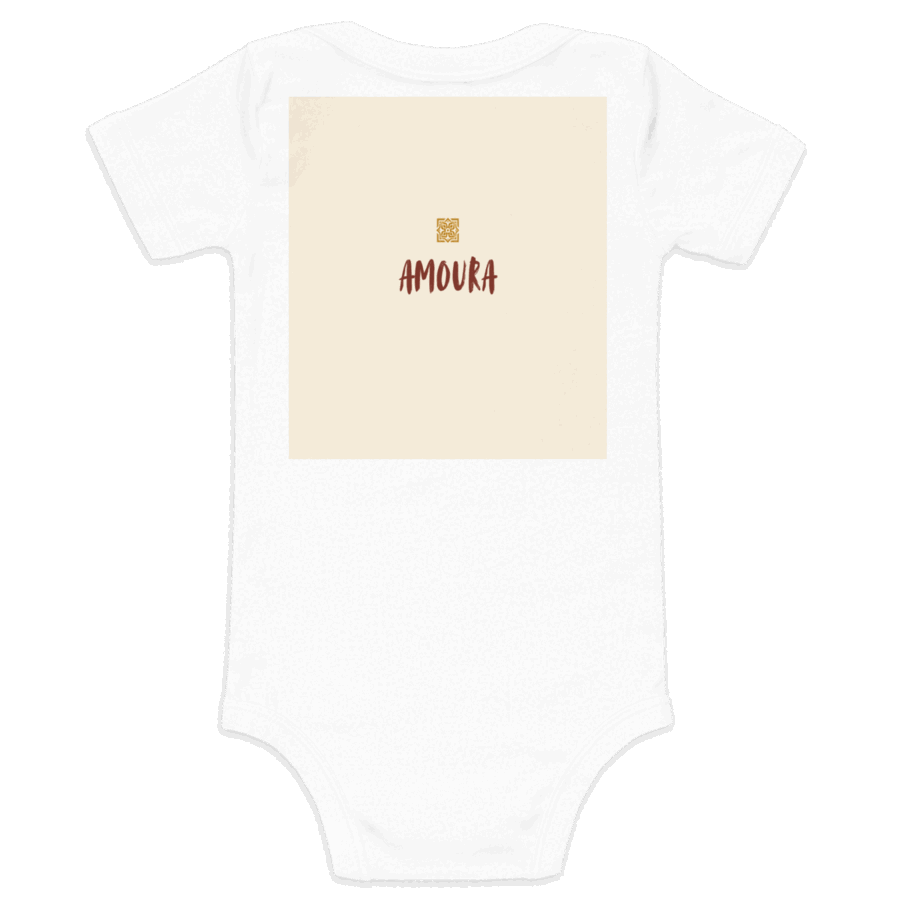
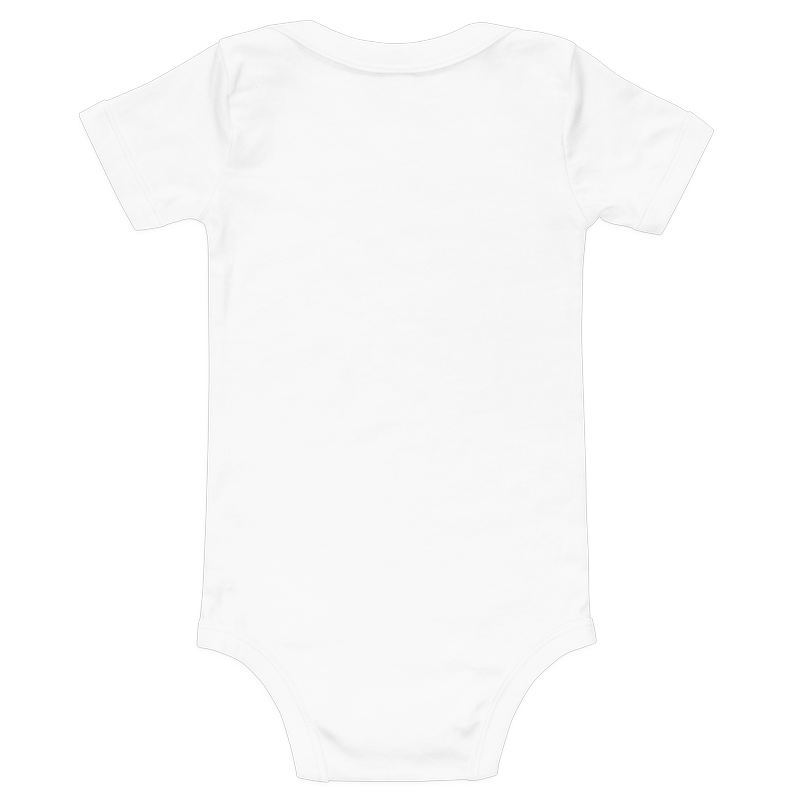
fix(storefront): frame blank onesie backs and center the share mark
Replace the cream-box onesie backs with the blank back, scaled to each front. Drop the repeated hat Style and Fit rows, and center the share image on glyph bounds.

Changed region(s): [[0.3125, 0.0938, 0.6875, 0.5312]]

diff --git a/site/catalog.js b/site/catalog.js
@@ -27,8 +27,8 @@ window.HABIBI_CATALOG = {
     { id: 8001, slug: "craft-club-sticker", image: "assets/mockups/craft-club-sticker.png", name: "Craft Club", category: "stickers", kind: "Sticker", price: 5.99, priceLabel: "$5.99", spec: "About 3 in · vinyl", note: "Vinyl sticker.", blurb: "Vinyl sticker.", details: [["Size", "About 3 in"], ["Material", "Vinyl"], ["Finish", "Kiss-cut"], ["Care", "Wipe clean"], ["Timing", "Printed after you order · usually 2–5 days"]] },
     { id: 8002, slug: "make-something-sticker", image: "assets/mockups/make-something-sticker.png", name: "Make Something", category: "stickers", kind: "Sticker", price: 5.99, priceLabel: "$5.99", spec: "About 3 in · vinyl", note: "Vinyl sticker.", blurb: "Vinyl sticker.", details: [["Size", "About 3 in"], ["Material", "Vinyl"], ["Finish", "Kiss-cut"], ["Care", "Wipe clean"], ["Timing", "Printed after you order · usually 2–5 days"]] },
     { id: 8003, slug: "leaf-season-sticker", image: "assets/mockups/leaf-season-sticker.png", name: "Leaf Season", category: "stickers", kind: "Sticker", price: 5.99, priceLabel: "$5.99", spec: "About 3 in · vinyl", note: "Vinyl sticker.", blurb: "Vinyl sticker.", details: [["Size", "About 3 in"], ["Material", "Vinyl"], ["Finish", "Kiss-cut"], ["Care", "Wipe clean"], ["Timing", "Printed after you order · usually 2–5 days"]] },
-    { id: 8004, slug: "habibi-crafts-hat", image: "assets/mockups/habibi-crafts-hat.png", name: "Habibi Crafts", category: "hats", kind: "Dad hat", price: 29.99, priceLabel: "$29.99", spec: "One size · unstructured", note: "Unstructured dad hat.", blurb: "Unstructured dad hat.", details: [["Style", "Dad hat"], ["Fit", "One size, adjustable"], ["Color", "Black"], ["Care", "Spot clean"], ["Timing", "Printed after you order · usually 2–5 days"]] },
-    { id: 8005, slug: "make-something-hat", image: "assets/mockups/make-something-hat.png", name: "Make Something", category: "hats", kind: "Dad hat", price: 29.99, priceLabel: "$29.99", spec: "One size · unstructured", note: "Unstructured dad hat.", blurb: "Unstructured dad hat.", details: [["Style", "Dad hat"], ["Fit", "One size, adjustable"], ["Color", "Black"], ["Care", "Spot clean"], ["Timing", "Printed after you order · usually 2–5 days"]] },
-    { id: 8006, slug: "leaf-season-hat", image: "assets/mockups/leaf-season-hat.png", name: "Leaf Season", category: "hats", kind: "Dad hat", price: 29.99, priceLabel: "$29.99", spec: "One size · unstructured", note: "Unstructured dad hat.", blurb: "Unstructured dad hat.", details: [["Style", "Dad hat"], ["Fit", "One size, adjustable"], ["Color", "Black"], ["Care", "Spot clean"], ["Timing", "Printed after you order · usually 2–5 days"]] }
+    { id: 8004, slug: "habibi-crafts-hat", image: "assets/mockups/habibi-crafts-hat.png", name: "Habibi Crafts", category: "hats", kind: "Dad hat", price: 29.99, priceLabel: "$29.99", spec: "One size · unstructured", note: "Unstructured dad hat.", blurb: "Unstructured dad hat.", details: [["Color", "Black"], ["Care", "Spot clean"], ["Timing", "Printed after you order · usually 2–5 days"]] },
+    { id: 8005, slug: "make-something-hat", image: "assets/mockups/make-something-hat.png", name: "Make Something", category: "hats", kind: "Dad hat", price: 29.99, priceLabel: "$29.99", spec: "One size · unstructured", note: "Unstructured dad hat.", blurb: "Unstructured dad hat.", details: [["Color", "Black"], ["Care", "Spot clean"], ["Timing", "Printed after you order · usually 2–5 days"]] },
+    { id: 8006, slug: "leaf-season-hat", image: "assets/mockups/leaf-season-hat.png", name: "Leaf Season", category: "hats", kind: "Dad hat", price: 29.99, priceLabel: "$29.99", spec: "One size · unstructured", note: "Unstructured dad hat.", blurb: "Unstructured dad hat.", details: [["Color", "Black"], ["Care", "Spot clean"], ["Timing", "Printed after you order · usually 2–5 days"]] }
   ]
 };

diff --git a/site/onesies.html b/site/onesies.html
@@ -83,19 +83,19 @@
     <nav class="filter-bar" aria-label="Shop by collection"><a class="filter-button" href="shop.html">All</a><a class="filter-button" href="mugs.html">Mugs</a><a class="filter-button" href="tees.html">Tees</a><a class="filter-button" href="totes.html">Totes</a><a class="filter-button" href="onesies.html" aria-current="page">Onesies</a><a class="filter-button" href="prints.html">Prints</a><a class="filter-button" href="stickers.html">Stickers</a><a class="filter-button" href="hats.html">Hats</a></nav>
   </div></section>
   <section class="section tight"><div class="shell">
-    <div class="product-grid"><a class="product-card reveal" href="product-ya-teta.html" data-category="baby" data-preview="[&quot;assets/angles/ya-teta/back-view.png?v=10&quot;]">
+    <div class="product-grid"><a class="product-card reveal" href="product-ya-teta.html" data-category="baby" data-preview="[&quot;assets/angles/ya-teta/back-view.png?v=19&quot;]">
   <div class="product-media"><img class="mockup" src="assets/mockups/ya-teta.png?v=9" alt="Ya Teta" width="800" height="800" loading="lazy" decoding="async"></div>
   <div class="product-copy">
     <div class="product-type">Onesie</div>
     <div class="product-row"><h3>Ya Teta</h3><span class="price">$27.99</span></div>
   </div>
-</a><a class="product-card reveal" href="product-amoura.html" data-category="baby" data-preview="[&quot;assets/angles/amoura/back-view.png?v=10&quot;]">
+</a><a class="product-card reveal" href="product-amoura.html" data-category="baby" data-preview="[&quot;assets/angles/amoura/back-view.png?v=19&quot;]">
   <div class="product-media"><img class="mockup" src="assets/mockups/amoura.png?v=9" alt="Amoura" width="800" height="800" loading="lazy" decoding="async"></div>
   <div class="product-copy">
     <div class="product-type">Onesie</div>
     <div class="product-row"><h3>Amoura</h3><span class="price">$27.99</span></div>
   </div>
-</a><a class="product-card reveal" href="product-garden-gate.html" data-category="baby" data-preview="[&quot;assets/angles/garden-gate/back-view.png?v=10&quot;]">
+</a><a class="product-card reveal" href="product-garden-gate.html" data-category="baby" data-preview="[&quot;assets/angles/garden-gate/back-view.png?v=19&quot;]">
   <div class="product-media"><img class="mockup" src="assets/mockups/garden-gate.png?v=18" alt="Garden Gate" width="800" height="800" loading="lazy" decoding="async"></div>
   <div class="product-copy">
     <div class="product-type">Onesie</div>

diff --git a/site/shop.html b/site/shop.html
@@ -199,19 +199,19 @@
       <div><h2 id="baby-heading">Onesies</h2><p>Baby onesie.</p></div>
       <a class="text-link" href="onesies.html">Shop onesies</a>
     </div>
-    <div class="product-grid"><a class="product-card reveal" href="product-ya-teta.html" data-category="baby" data-preview="[&quot;assets/angles/ya-teta/back-view.png?v=10&quot;]">
+    <div class="product-grid"><a class="product-card reveal" href="product-ya-teta.html" data-category="baby" data-preview="[&quot;assets/angles/ya-teta/back-view.png?v=19&quot;]">
   <div class="product-media"><img class="mockup" src="assets/mockups/ya-teta.png?v=9" alt="Ya Teta" width="800" height="800" loading="lazy" decoding="async"></div>
   <div class="product-copy">
     <div class="product-type">Onesie</div>
     <div class="product-row"><h3>Ya Teta</h3><span class="price">$27.99</span></div>
   </div>
-</a><a class="product-card reveal" href="product-amoura.html" data-category="baby" data-preview="[&quot;assets/angles/amoura/back-view.png?v=10&quot;]">
+</a><a class="product-card reveal" href="product-amoura.html" data-category="baby" data-preview="[&quot;assets/angles/amoura/back-view.png?v=19&quot;]">
   <div class="product-media"><img class="mockup" src="assets/mockups/amoura.png?v=9" alt="Amoura" width="800" height="800" loading="lazy" decoding="async"></div>
   <div class="product-copy">
     <div class="product-type">Onesie</div>
     <div class="product-row"><h3>Amoura</h3><span class="price">$27.99</span></div>
   </div>
-</a><a class="product-card reveal" href="product-garden-gate.html" data-category="baby" data-preview="[&quot;assets/angles/garden-gate/back-view.png?v=10&quot;]">
+</a><a class="product-card reveal" href="product-garden-gate.html" data-category="baby" data-preview="[&quot;assets/angles/garden-gate/back-view.png?v=19&quot;]">
   <div class="product-media"><img class="mockup" src="assets/mockups/garden-gate.png?v=18" alt="Garden Gate" width="800" height="800" loading="lazy" decoding="async"></div>
   <div class="product-copy">
     <div class="product-type">Onesie</div>

diff --git a/site/product-garden-gate.html b/site/product-garden-gate.html
@@ -78,7 +78,7 @@
 </div>
 <main id="main">
   <div class="shell product-page">
-    <div class="spin" data-spin data-kind="baby" data-frames="[{&quot;src&quot;:&quot;assets/angles/garden-gate/front-view.png?v=18&quot;,&quot;label&quot;:&quot;front view&quot;},{&quot;src&quot;:&quot;assets/angles/garden-gate/back-view.png?v=10&quot;,&quot;label&quot;:&quot;back view&quot;}]" data-alt="Garden Gate">
+    <div class="spin" data-spin data-kind="baby" data-frames="[{&quot;src&quot;:&quot;assets/angles/garden-gate/front-view.png?v=18&quot;,&quot;label&quot;:&quot;front view&quot;},{&quot;src&quot;:&quot;assets/angles/garden-gate/back-view.png?v=19&quot;,&quot;label&quot;:&quot;back view&quot;}]" data-alt="Garden Gate">
       <div class="spin-counter" data-spin-counter>front view</div>
       <div class="spin-stage" data-spin-stage>
         <img data-spin-image class="mockup" src="assets/angles/garden-gate/front-view.png?v=18" alt="Garden Gate" width="1200" height="1200" decoding="async">

diff --git a/site/product-ya-teta.html b/site/product-ya-teta.html
@@ -78,7 +78,7 @@
 </div>
 <main id="main">
   <div class="shell product-page">
-    <div class="spin" data-spin data-kind="baby" data-frames="[{&quot;src&quot;:&quot;assets/angles/ya-teta/front-view.png?v=11&quot;,&quot;label&quot;:&quot;front view&quot;},{&quot;src&quot;:&quot;assets/angles/ya-teta/back-view.png?v=10&quot;,&quot;label&quot;:&quot;back view&quot;}]" data-alt="Ya Teta">
+    <div class="spin" data-spin data-kind="baby" data-frames="[{&quot;src&quot;:&quot;assets/angles/ya-teta/front-view.png?v=11&quot;,&quot;label&quot;:&quot;front view&quot;},{&quot;src&quot;:&quot;assets/angles/ya-teta/back-view.png?v=19&quot;,&quot;label&quot;:&quot;back view&quot;}]" data-alt="Ya Teta">
       <div class="spin-counter" data-spin-counter>front view</div>
       <div class="spin-stage" data-spin-stage>
         <img data-spin-image class="mockup" src="assets/angles/ya-teta/front-view.png?v=11" alt="Ya Teta" width="1200" height="1200" decoding="async">

diff --git a/site/product-amoura.html b/site/product-amoura.html
@@ -78,7 +78,7 @@
 </div>
 <main id="main">
   <div class="shell product-page">
-    <div class="spin" data-spin data-kind="baby" data-frames="[{&quot;src&quot;:&quot;assets/angles/amoura/front-view.png?v=11&quot;,&quot;label&quot;:&quot;front view&quot;},{&quot;src&quot;:&quot;assets/angles/amoura/back-view.png?v=10&quot;,&quot;label&quot;:&quot;back view&quot;}]" data-alt="Amoura">
+    <div class="spin" data-spin data-kind="baby" data-frames="[{&quot;src&quot;:&quot;assets/angles/amoura/front-view.png?v=11&quot;,&quot;label&quot;:&quot;front view&quot;},{&quot;src&quot;:&quot;assets/angles/amoura/back-view.png?v=19&quot;,&quot;label&quot;:&quot;back view&quot;}]" data-alt="Amoura">
       <div class="spin-counter" data-spin-counter>front view</div>
       <div class="spin-stage" data-spin-stage>
         <img data-spin-image class="mockup" src="assets/angles/amoura/front-view.png?v=11" alt="Amoura" width="1200" height="1200" decoding="async">

diff --git a/api/__tests__/copy-lint.test.js b/api/__tests__/copy-lint.test.js
@@ -155,6 +155,16 @@ describe('storefront copy does not regress the live-site review', () => {
     assert.ok(read('shop.html').includes('Mugs, tees, totes, onesies, prints, stickers, and hats.'));
   });
 
+  it('does not repeat the hat subtitle in the details rows', () => {
+    for (const name of ['product-habibi-crafts-hat.html', 'product-make-something-hat.html', 'product-leaf-season-hat.html']) {
+      const html = read(name);
+      assert.match(html, /<p class="product-subtitle">Unstructured dad hat, one size adjustable<\/p>/);
+      assert.doesNotMatch(html, /<dt>Style<\/dt>/);
+      assert.doesNotMatch(html, /<dt>Fit<\/dt>/);
+      assert.match(html, /<dt>Color<\/dt><dd>Black<\/dd>/);
+    }
+  });
+
   it('keeps the hat fit line on the hats intro only', () => {
     const line = 'Black. Unstructured dad hat, one size adjustable.';
     const hats = read('hats.html');

diff --git a/site/product-habibi-crafts-hat.html b/site/product-habibi-crafts-hat.html
@@ -89,7 +89,7 @@
       <p class="checkout-note">We're not taking orders yet.</p>
       <div class="detail-list">
         <h2>Details</h2>
-        <dl><div><dt>Style</dt><dd>Dad hat</dd></div><div><dt>Fit</dt><dd>One size, adjustable</dd></div><div><dt>Color</dt><dd>Black</dd></div><div><dt>Care</dt><dd>Spot clean</dd></div><div><dt>Timing</dt><dd>We print it after you order. It usually ships in 2 to 5 days.</dd></div></dl>
+        <dl><div><dt>Color</dt><dd>Black</dd></div><div><dt>Care</dt><dd>Spot clean</dd></div><div><dt>Timing</dt><dd>We print it after you order. It usually ships in 2 to 5 days.</dd></div></dl>
       </div>
       <p class="product-trust-links"><a href="shipping.html">Shipping &amp; timing</a> · <a href="faq.html">Sizes &amp; care</a></p>
     </div>

diff --git a/site/product-leaf-season-hat.html b/site/product-leaf-season-hat.html
@@ -89,7 +89,7 @@
       <p class="checkout-note">We're not taking orders yet.</p>
       <div class="detail-list">
         <h2>Details</h2>
-        <dl><div><dt>Style</dt><dd>Dad hat</dd></div><div><dt>Fit</dt><dd>One size, adjustable</dd></div><div><dt>Color</dt><dd>Black</dd></div><div><dt>Care</dt><dd>Spot clean</dd></div><div><dt>Timing</dt><dd>We print it after you order. It usually ships in 2 to 5 days.</dd></div></dl>
+        <dl><div><dt>Color</dt><dd>Black</dd></div><div><dt>Care</dt><dd>Spot clean</dd></div><div><dt>Timing</dt><dd>We print it after you order. It usually ships in 2 to 5 days.</dd></div></dl>
       </div>
       <p class="product-trust-links"><a href="shipping.html">Shipping &amp; timing</a> · <a href="faq.html">Sizes &amp; care</a></p>
     </div>

diff --git a/site/product-make-something-hat.html b/site/product-make-something-hat.html
@@ -89,7 +89,7 @@
       <p class="checkout-note">We're not taking orders yet.</p>
       <div class="detail-list">
         <h2>Details</h2>
-        <dl><div><dt>Style</dt><dd>Dad hat</dd></div><div><dt>Fit</dt><dd>One size, adjustable</dd></div><div><dt>Color</dt><dd>Black</dd></div><div><dt>Care</dt><dd>Spot clean</dd></div><div><dt>Timing</dt><dd>We print it after you order. It usually ships in 2 to 5 days.</dd></div></dl>
+        <dl><div><dt>Color</dt><dd>Black</dd></div><div><dt>Care</dt><dd>Spot clean</dd></div><div><dt>Timing</dt><dd>We print it after you order. It usually ships in 2 to 5 days.</dd></div></dl>
       </div>
       <p class="product-trust-links"><a href="shipping.html">Shipping &amp; timing</a> · <a href="faq.html">Sizes &amp; care</a></p>
     </div>

diff --git a/scripts/generate-seo-assets.py b/scripts/generate-seo-assets.py
@@ -89,16 +89,46 @@ def charcoal_wordmark(white: Image.Image) -> Image.Image:
     return mark.crop(bbox) if bbox else mark
 
 
-def draw_tracked(draw: ImageDraw.ImageDraw, text: str, y: int, font, fill, tracking: int, width: int) -> None:
+def tracked_glyphs(text: str, font, fill, tracking: int) -> Image.Image:
+    """Draw tracked type and crop to the ink, so trailing spacing is not part of the width."""
+    scratch = ImageDraw.Draw(Image.new("RGBA", (1, 1)))
     widths = []
     for char in text:
-        box = draw.textbbox((0, 0), char, font=font)
+        box = scratch.textbbox((0, 0), char, font=font)
         widths.append(box[2] - box[0])
-    total = sum(widths) + tracking * (len(text) - 1)
-    x = (width - total) // 2
+    line = scratch.textbbox((0, 0), text, font=font)
+    total = sum(widths) + tracking * max(len(text) - 1, 0)
+    image = Image.new("RGBA", (total + 64, (line[3] - line[1]) + 64), (0, 0, 0, 0))
+    draw = ImageDraw.Draw(image)
+    x = 32
+    y = 32 - line[1]
     for char, char_w in zip(text, widths):
         draw.text((x, y), char, font=font, fill=fill)
         x += char_w + tracking
+    bbox = image.getbbox()
+    return image.crop(bbox) if bbox else image
+
+
+def ink_bands(im: Image.Image, threshold: int = 16):
+    """Split a transparent wordmark into its lines and crop each to its glyphs."""
+    alpha = im.getchannel("A")
+    width, height = im.size
+    px = alpha.load()
+    hits = []
+    for y in range(height):
+        hits.append(any(px[x, y] > threshold for x in range(width)))
+    bands = []
+    start = None
+    for y, hit in enumerate(hits + [False]):
+        if hit and start is None:
+            start = y
+        elif not hit and start is not None:
+            band = im.crop((0, start, width, y))
+            bbox = band.getbbox()
+            if bbox:
+                bands.append((band.crop(bbox), start + bbox[1]))
+            start = None
+    return bands
 
 
 def write_og_share(logo: Image.Image, dest: Path) -> None:
@@ -112,17 +142,15 @@ def write_og_share(logo: Image.Image, dest: Path) -> None:
     canvas = Image.new("RGBA", (w, h), CREAM)
     mark = charcoal_wordmark(Image.open(ASSETS / "logo-nav-white.png"))
     fitted = ImageOps.contain(mark, (920 * scale, 300 * scale), Image.Resampling.LANCZOS)
-    draw = ImageDraw.Draw(canvas)
     date_font = ImageFont.truetype(SANS, 26 * scale)
-    established = "ESTD 2024"
-    date_box = draw.textbbox((0, 0), established, font=date_font)
-    date_h = date_box[3] - date_box[1]
+    established = tracked_glyphs("ESTD 2024", date_font, MUTED, 8 * scale)
     # Close the gap the tagline used to occupy, then center the pair.
     gap = 28 * scale
-    block_h = fitted.height + gap + date_h
+    block_h = fitted.height + gap + established.height
     top = (h - block_h) // 2
-    canvas.alpha_composite(fitted, ((w - fitted.width) // 2, top))
-    draw_tracked(draw, established, top + fitted.height + gap - date_box[1], date_font, MUTED, 8 * scale, w)
+    for band, y0 in ink_bands(fitted):
+        canvas.alpha_composite(band, ((w - band.width) // 2, top + y0))
+    canvas.alpha_composite(established, ((w - established.width) // 2, top + fitted.height + gap))
     final = canvas.resize((1200, 630), Image.Resampling.LANCZOS)
     final.convert("RGB").save(dest, "PNG", optimize=True)
 

diff --git a/pipeline/storefront.py b/pipeline/storefront.py
@@ -494,8 +494,8 @@ def details_for(p):
         rows = [('Size', 'About 3 in'), ('Material', 'Vinyl'), ('Finish', 'Kiss-cut'),
                 ('Care', 'Spot clean'), ship]
     else:
-        rows = [('Style', 'Dad hat'), ('Fit', 'One size, adjustable'),
-                ('Color', HAT_COLOR[p['slug']]), ('Care', 'Spot clean'), ship]
+        # Style and fit already appear in the subtitle. Details keeps what they don't.
+        rows = [('Color', HAT_COLOR[p['slug']]), ('Care', 'Spot clean'), ship]
     return ''.join(f'<div><dt>{esc(k)}</dt><dd>{esc(v)}</dd></div>' for k, v in rows)
 
 
